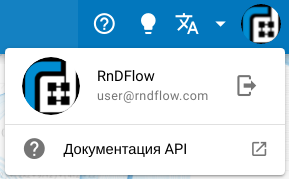
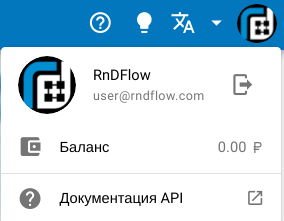
Update common panel info

diff --git a/src/desc/README.md b/src/desc/README.md
@@ -4,21 +4,27 @@
 
 ![Link panel](/images/common/toolspanel.png)
 
-- <img src="/images/logo.svg" align="left" alt="logo" style="margin: 1%; width: 3%"> **FLOW** - переход на главную страницу
+- <img src="/images/logo.svg" align="left" alt="logo" style="margin: 1%; width: 3%"> - переход на главную страницу
   <br clear="left"/>
-- <span class="iconify-inline" data-icon="mdi:magnify"></span> - панель поиска
+- <span class="iconify-inline" data-icon="mdi:magnify"></span>Поиск - панель поиска
+- Обзор - ссылка на [галерею][1] проектов
+- <span class="iconify-inline" data-icon="mdi:help-circle-outline"></span>- ссылка на документацию платформы
 - <span class="iconify-inline" data-icon="mdi:lightbulb"></span>- переключатель темы
 - <span class="iconify-inline" data-icon="mdi:translate"></span>- переключатель языка
 - Аватар пользователя - [панель ссылок](#панель-ссылок)
 
 ## Панель ссылок
 
-Панель ссылок содерит ссылки для переходов между разделами платформы.
+Панель ссылок содержит ссылки для переходов между разделами платформы.
 
 Структура:
 
-- Ссылка на [панель управления](./dashboard.md) пользователя
-- <span class="iconify-inline" data-icon="mdi:logout"></span> Кнопка выхода из платформы
-- Ссылка на документацию [API](/docs/dev/README.md/#API)
+- Аватар - ссылка на [панель управления](./dashboard.md) пользователя
+- <span class="iconify-inline" data-icon="mdi:logout"></span> - кнопка выхода из платформы
+- <span class="iconify-inline" data-icon="mdi:wallet"></span> Баланс - ссылка на [баланс][2] пользователя
+- Документация API - cсылка на [API](/docs/dev/README.md/#API) платформы
 
 ![Link panel](/images/common/link_panel.png)
+
+[1]: /docs/desc/explorer.md
+[2]: /docs/desc/dashboard.md#баланс
